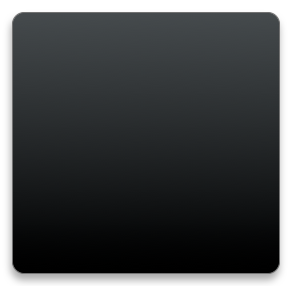
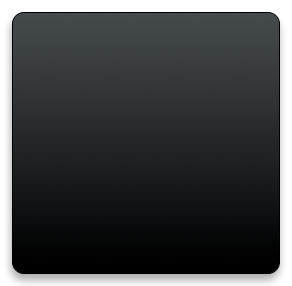
Try a black background and use Helvetica Neue for route names

diff --git a/CU Buses.dcproj/project/widget.wdgt/main.html b/CU Buses.dcproj/project/widget.wdgt/main.html
@@ -18,7 +18,7 @@
 </head>
 <body onload="load();" apple-part="com.apple.Dashcode.part.StackLayout">
     <div id="front">
-        <img id="frontImg" src="Parts/Images/front.png" alt="" apple-locked="true" apple-part="com.apple.Dashcode.part.frontimage" apple-style="image-theme: 1; image-shape: 3; image-opacity: 1.00; image-top-color: 0.211603701,0.227068454,0.237106413,1; image-bottom-color: 0,0,0,1; image-radius: 12,12,12,12; image-border: 1; image-border-color: 0.447015256,0.447194904,0.446943015,1; image-border-width: 1; shine-on: 0; shine-strength: 0.40; shine-alpha-level: 0.67; shine-height: 0.50; glass-arc-height: 0.06; embossed-on: 0; embossed-depth: 1; embossed-shadow: 0.68; embossed-highlight: 0.3; shadow-include-shadow: 1; shadow-offset: -1.00,-6.00; shadow-color: 0,0,0,0.3333;">
+        <img id="frontImg" src="Parts/Images/front.png" alt="" apple-locked="true" apple-part="com.apple.Dashcode.part.frontimage" apple-style="image-theme: 1; image-shape: 3; image-opacity: 1.00; image-top-color: 0.211603701,0.227068454,0.237106413,1; image-bottom-color: 0,0,0,1; image-radius: 12,12,12,12; image-border: 1; image-border-color: 0,0,0,1; image-border-width: 1; shine-on: 0; shine-strength: 0.40; shine-alpha-level: 0.67; shine-height: 0.50; glass-arc-height: 0.06; embossed-on: 0; embossed-depth: 1; embossed-shadow: 0.68; embossed-highlight: 0.3; shadow-include-shadow: 1; shadow-offset: -1.00,-6.00; shadow-color: 0,0,0,0.3333;">
         <div class="apple-no-children" id="info" apple-part="com.apple.Dashcode.part.infobutton" apple-default-image-visibility="hidden"></div>
         <div apple-part="com.apple.Dashcode.part.text" class="apple-text apple-no-children" id="top_text" apple-group="text"></div>
         <div id="text_message" apple-part="com.apple.Dashcode.part.text" class="apple-text apple-no-children" apple-text-overflow="ellipsis" apple-default-image-visibility="hidden"></div>

diff --git a/CU Buses.dcproj/project/widget.wdgt/main.css b/CU Buses.dcproj/project/widget.wdgt/main.css
@@ -136,8 +136,7 @@ body {
     right: 0px;
     width: auto;
     color: rgb(214, 214, 214);
-    font-style: normal;
-    font-family: Helvetica;
+    font-family: 'Helvetica Neue';
 }
 
 .listRowTemplate_template.selected {
